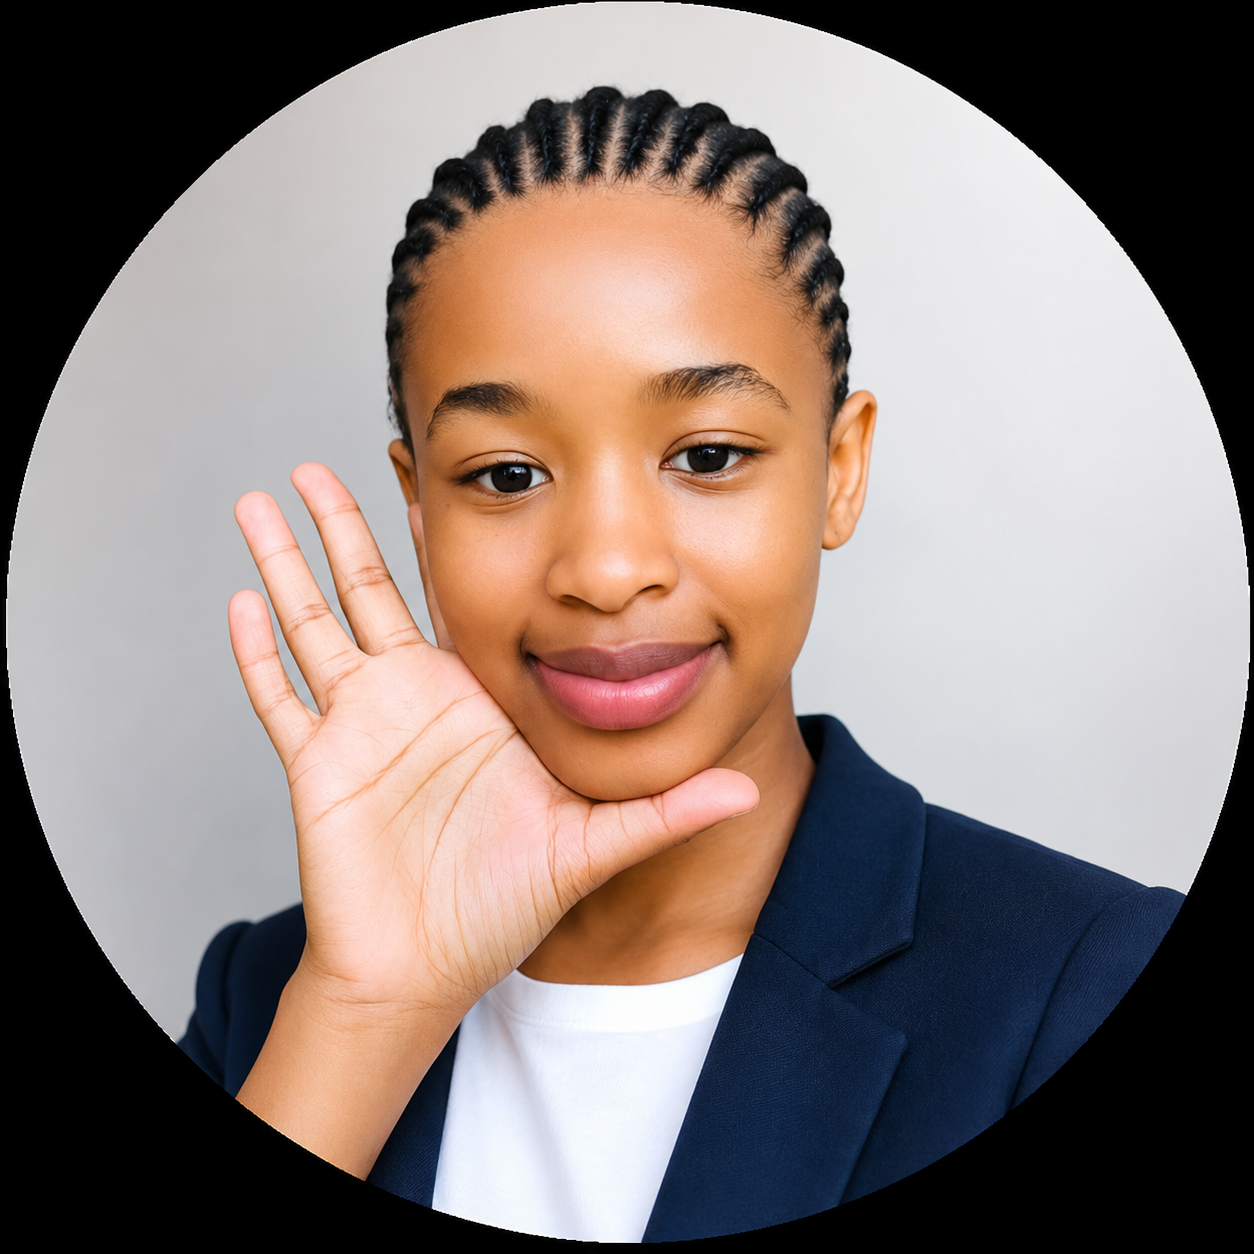
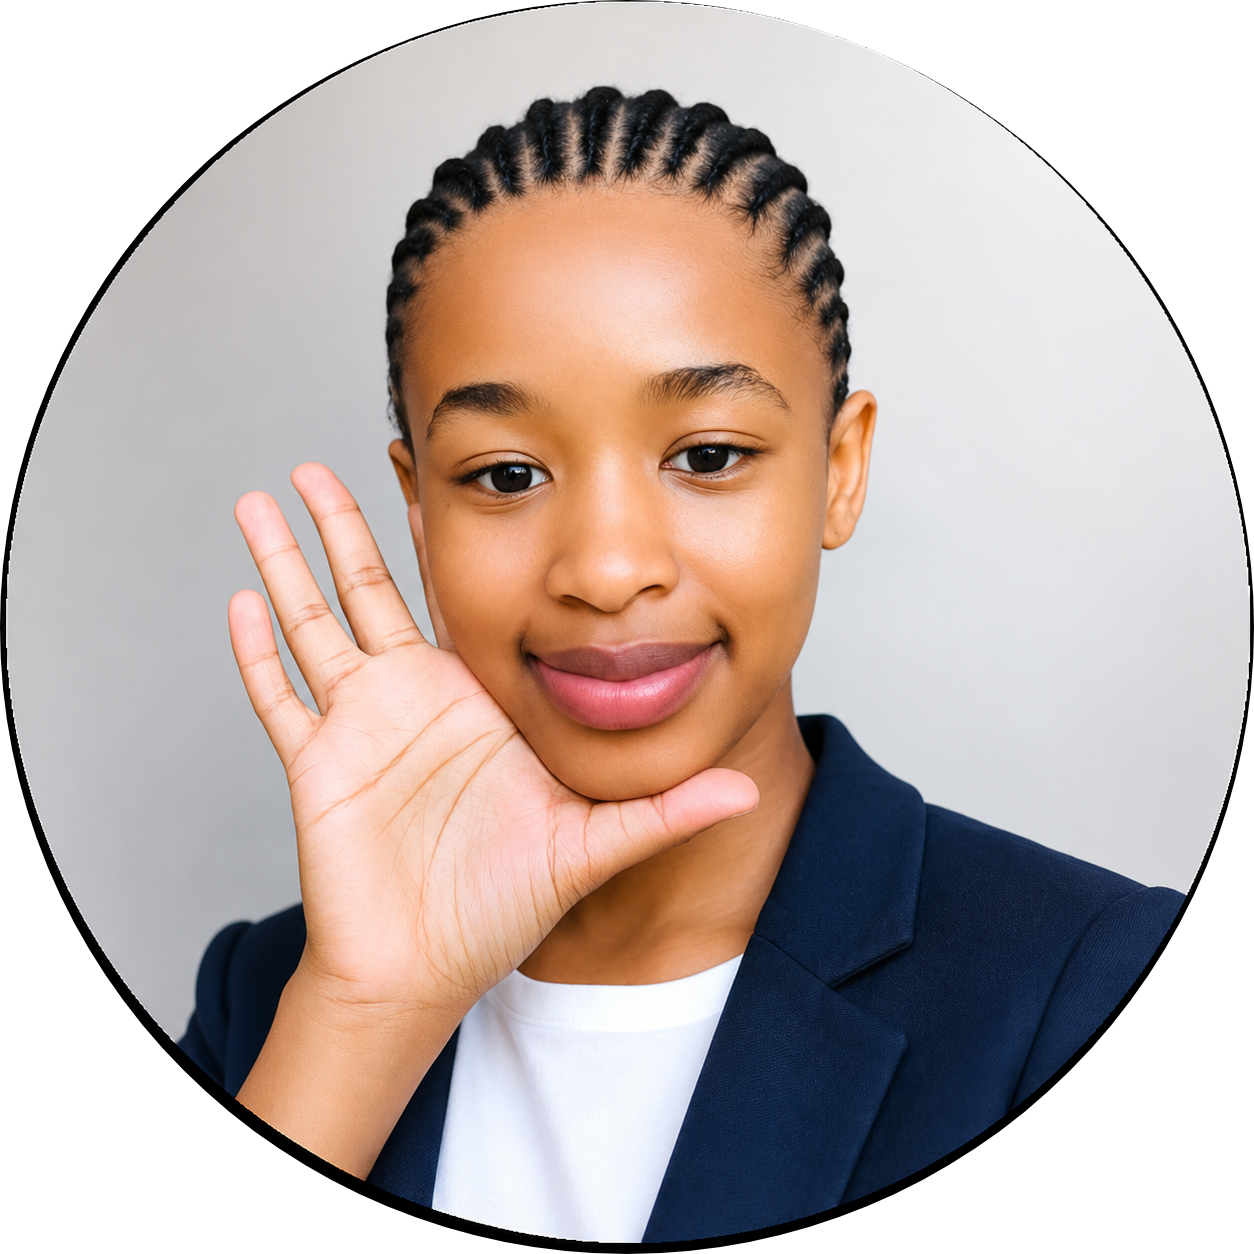
Add Live Projects page with filter categories and project showcase

Changed region(s): [[0.0, 0.0, 1.0, 1.0], [0.0, 0.0, 0.4354, 0.4354]]

diff --git a/src/pages/LiveProjects.tsx b/src/pages/LiveProjects.tsx
@@ -1,0 +1,273 @@
+import React, { useState } from 'react';
+import { motion } from 'framer-motion';
+import Navbar from '@/components/Navbar';
+import Footer from '@/components/Footer';
+import WhatsAppFloat from '@/components/WhatsAppFloat';
+import FloatingAssistant from '@/components/FloatingAssistant';
+import { Card, CardContent, CardDescription, CardFooter, CardHeader, CardTitle } from '@/components/ui/card';
+import { Button } from '@/components/ui/button';
+import { Badge } from '@/components/ui/badge';
+import { ExternalLink, Github, Calendar, Tag } from 'lucide-react';
+
+interface Project {
+  id: number;
+  title: string;
+  description: string;
+  category: string;
+  tags: string[];
+  image: string;
+  liveUrl?: string;
+  githubUrl?: string;
+  date: string;
+}
+
+const LiveProjects = () => {
+  const [selectedCategory, setSelectedCategory] = useState('All');
+
+  const categories = ['All', 'AI & Chatbot', 'Mobile Apps', 'Web Development', 'Machine Learning', 'Graphic Design', 'Marketing'];
+
+  const projects: Project[] = [
+    {
+      id: 1,
+      title: 'AI Customer Support Chatbot',
+      description: 'Intelligent chatbot with natural language processing for 24/7 customer support',
+      category: 'AI & Chatbot',
+      tags: ['AI', 'NLP', 'React', 'Node.js'],
+      image: 'https://images.unsplash.com/photo-1531746790731-6c087fecd65a?ixlib=rb-1.2.1&auto=format&fit=crop&w=800&q=80',
+      liveUrl: 'https://example.com/chatbot',
+      githubUrl: 'https://github.com/example/chatbot',
+      date: '2024-01'
+    },
+    {
+      id: 2,
+      title: 'E-Commerce Mobile App',
+      description: 'Cross-platform shopping app with payment integration and real-time tracking',
+      category: 'Mobile Apps',
+      tags: ['React Native', 'Firebase', 'Stripe'],
+      image: 'https://images.unsplash.com/photo-1563013544-824ae1b704d3?ixlib=rb-1.2.1&auto=format&fit=crop&w=800&q=80',
+      liveUrl: 'https://example.com/ecommerce',
+      date: '2024-02'
+    },
+    {
+      id: 3,
+      title: 'Restaurant Management System',
+      description: 'Full-stack web application for restaurant operations and online ordering',
+      category: 'Web Development',
+      tags: ['React', 'TypeScript', 'PostgreSQL'],
+      image: 'https://images.unsplash.com/photo-1517248135467-4c7edcad34c4?ixlib=rb-1.2.1&auto=format&fit=crop&w=800&q=80',
+      liveUrl: 'https://example.com/restaurant',
+      githubUrl: 'https://github.com/example/restaurant',
+      date: '2024-03'
+    },
+    {
+      id: 4,
+      title: 'Predictive Analytics Platform',
+      description: 'ML-powered platform for business forecasting and data visualization',
+      category: 'Machine Learning',
+      tags: ['Python', 'TensorFlow', 'React', 'FastAPI'],
+      image: 'https://images.unsplash.com/photo-1551288049-bebda4e38f71?ixlib=rb-1.2.1&auto=format&fit=crop&w=800&q=80',
+      liveUrl: 'https://example.com/analytics',
+      date: '2024-01'
+    },
+    {
+      id: 5,
+      title: 'Brand Identity Package',
+      description: 'Complete branding solution including logo, guidelines, and marketing materials',
+      category: 'Graphic Design',
+      tags: ['Illustrator', 'Photoshop', 'Figma'],
+      image: 'https://images.unsplash.com/photo-1626785774573-4b799315345d?ixlib=rb-1.2.1&auto=format&fit=crop&w=800&q=80',
+      liveUrl: 'https://example.com/branding',
+      date: '2024-02'
+    },
+    {
+      id: 6,
+      title: 'Social Media Campaign',
+      description: 'Multi-platform marketing campaign with 300% engagement increase',
+      category: 'Marketing',
+      tags: ['Social Media', 'Content Strategy', 'Analytics'],
+      image: 'https://images.unsplash.com/photo-1611162617474-5b21e879e113?ixlib=rb-1.2.1&auto=format&fit=crop&w=800&q=80',
+      liveUrl: 'https://example.com/campaign',
+      date: '2024-03'
+    },
+  ];
+
+  const filteredProjects = selectedCategory === 'All' 
+    ? projects 
+    : projects.filter(project => project.category === selectedCategory);
+
+  return (
+    <div className="min-h-screen flex flex-col">
+      <Navbar />
+      
+      <main className="flex-grow">
+        {/* Hero Section */}
+        <section className="bg-gradient-to-r from-tech-blue to-tech-purple text-white py-20">
+          <div className="container-custom">
+            <motion.div
+              initial={{ opacity: 0, y: 20 }}
+              animate={{ opacity: 1, y: 0 }}
+              transition={{ duration: 0.6 }}
+              className="text-center"
+            >
+              <h1 className="text-4xl md:text-5xl lg:text-6xl font-bold mb-6">
+                Live Projects
+              </h1>
+              <p className="text-xl md:text-2xl text-white/90 max-w-3xl mx-auto">
+                Explore our portfolio of successful projects and live applications
+              </p>
+            </motion.div>
+          </div>
+        </section>
+
+        {/* Filter Section */}
+        <section className="py-8 bg-gray-50 sticky top-[73px] z-30 shadow-sm">
+          <div className="container-custom">
+            <div className="flex flex-wrap gap-3 justify-center">
+              {categories.map((category) => (
+                <motion.button
+                  key={category}
+                  whileHover={{ scale: 1.05 }}
+                  whileTap={{ scale: 0.95 }}
+                  onClick={() => setSelectedCategory(category)}
+                  className={`px-6 py-2 rounded-full font-medium transition-all ${
+                    selectedCategory === category
+                      ? 'bg-tech-blue text-white shadow-lg'
+                      : 'bg-white text-gray-700 hover:bg-gray-100'
+                  }`}
+                >
+                  {category}
+                </motion.button>
+              ))}
+            </div>
+          </div>
+        </section>
+
+        {/* Projects Grid */}
+        <section className="py-16">
+          <div className="container-custom">
+            <motion.div
+              layout
+              className="grid md:grid-cols-2 lg:grid-cols-3 gap-8"
+            >
+              {filteredProjects.map((project, index) => (
+                <motion.div
+                  key={project.id}
+                  layout
+                  initial={{ opacity: 0, scale: 0.9 }}
+                  animate={{ opacity: 1, scale: 1 }}
+                  exit={{ opacity: 0, scale: 0.9 }}
+                  transition={{ duration: 0.3, delay: index * 0.1 }}
+                >
+                  <Card className="overflow-hidden h-full hover:shadow-xl transition-shadow duration-300">
+                    <div className="relative h-48 overflow-hidden">
+                      <img
+                        src={project.image}
+                        alt={project.title}
+                        className="w-full h-full object-cover hover:scale-110 transition-transform duration-300"
+                      />
+                      <div className="absolute top-3 right-3">
+                        <Badge className="bg-tech-blue">{project.category}</Badge>
+                      </div>
+                    </div>
+                    
+                    <CardHeader>
+                      <CardTitle className="text-xl">{project.title}</CardTitle>
+                      <CardDescription className="flex items-center gap-2 text-sm">
+                        <Calendar className="h-4 w-4" />
+                        {new Date(project.date).toLocaleDateString('en-US', { 
+                          month: 'short', 
+                          year: 'numeric' 
+                        })}
+                      </CardDescription>
+                    </CardHeader>
+                    
+                    <CardContent>
+                      <p className="text-gray-600 mb-4">{project.description}</p>
+                      <div className="flex flex-wrap gap-2">
+                        {project.tags.map((tag) => (
+                          <Badge key={tag} variant="outline" className="text-xs">
+                            <Tag className="h-3 w-3 mr-1" />
+                            {tag}
+                          </Badge>
+                        ))}
+                      </div>
+                    </CardContent>
+                    
+                    <CardFooter className="gap-3">
+                      {project.liveUrl && (
+                        <Button
+                          asChild
+                          className="flex-1 bg-tech-blue hover:bg-tech-purple"
+                        >
+                          <a
+                            href={project.liveUrl}
+                            target="_blank"
+                            rel="noopener noreferrer"
+                          >
+                            <ExternalLink className="h-4 w-4 mr-2" />
+                            Live Demo
+                          </a>
+                        </Button>
+                      )}
+                      {project.githubUrl && (
+                        <Button
+                          asChild
+                          variant="outline"
+                          className="flex-1"
+                        >
+                          <a
+                            href={project.githubUrl}
+                            target="_blank"
+                            rel="noopener noreferrer"
+                          >
+                            <Github className="h-4 w-4 mr-2" />
+                            Code
+                          </a>
+                        </Button>
+                      )}
+                    </CardFooter>
+                  </Card>
+                </motion.div>
+              ))}
+            </motion.div>
+
+            {filteredProjects.length === 0 && (
+              <motion.div
+                initial={{ opacity: 0 }}
+                animate={{ opacity: 1 }}
+                className="text-center py-20"
+              >
+                <p className="text-gray-500 text-xl">No projects found in this category</p>
+              </motion.div>
+            )}
+          </div>
+        </section>
+
+        {/* CTA Section */}
+        <section className="bg-gradient-to-r from-tech-blue to-tech-purple text-white py-16">
+          <div className="container-custom text-center">
+            <h2 className="text-3xl md:text-4xl font-bold mb-4">
+              Ready to Start Your Project?
+            </h2>
+            <p className="text-xl mb-8 text-white/90">
+              Let's bring your ideas to life with cutting-edge technology
+            </p>
+            <Button
+              asChild
+              size="lg"
+              className="bg-white text-tech-blue hover:bg-gray-100"
+            >
+              <a href="/#team">Contact Us</a>
+            </Button>
+          </div>
+        </section>
+      </main>
+
+      <Footer />
+      <WhatsAppFloat />
+      <FloatingAssistant />
+    </div>
+  );
+};
+
+export default LiveProjects;

diff --git a/src/components/Navbar.tsx b/src/components/Navbar.tsx
@@ -26,25 +26,28 @@ const Navbar = () => {
         
         {/* Desktop Navigation */}
         <div className="hidden md:flex items-center gap-8">
-          <a href="#ai" className="text-gray-700 hover:text-tech-blue transition-colors">
+          <a href="/#ai" className="text-gray-700 hover:text-tech-blue transition-colors">
             AI
           </a>
-          <a href="#mobile" className="text-gray-700 hover:text-tech-blue transition-colors">
+          <a href="/#mobile" className="text-gray-700 hover:text-tech-blue transition-colors">
             Mobile Apps
           </a>
-          <a href="#web" className="text-gray-700 hover:text-tech-blue transition-colors">
+          <a href="/#web" className="text-gray-700 hover:text-tech-blue transition-colors">
             Web Development
           </a>
-          <a href="#ml" className="text-gray-700 hover:text-tech-blue transition-colors">
+          <a href="/#ml" className="text-gray-700 hover:text-tech-blue transition-colors">
             Machine Learning
           </a>
-          <a href="#graphic-design" className="text-gray-700 hover:text-tech-blue transition-colors">
+          <a href="/#graphic-design" className="text-gray-700 hover:text-tech-blue transition-colors">
             Graphic Design
           </a>
-          <a href="#marketing" className="text-gray-700 hover:text-tech-blue transition-colors">
+          <a href="/#marketing" className="text-gray-700 hover:text-tech-blue transition-colors">
             Marketing
           </a>
-          <a href="#team" className="text-gray-700 hover:text-tech-blue transition-colors">
+          <a href="/live-projects" className="text-gray-700 hover:text-tech-blue transition-colors">
+            Live Projects
+          </a>
+          <a href="/#team" className="text-gray-700 hover:text-tech-blue transition-colors">
             Team
           </a>
           
@@ -96,25 +99,28 @@ const Navbar = () => {
       {isMenuOpen && (
         <div className="md:hidden bg-white py-2 px-4 shadow-md absolute top-full left-0 right-0 z-50">
           <div className="flex flex-col space-y-3">
-            <a href="#ai" className="text-gray-700 py-2 hover:text-tech-blue transition-colors" onClick={() => setIsMenuOpen(false)}>
+            <a href="/#ai" className="text-gray-700 py-2 hover:text-tech-blue transition-colors" onClick={() => setIsMenuOpen(false)}>
               AI
             </a>
-            <a href="#mobile" className="text-gray-700 py-2 hover:text-tech-blue transition-colors" onClick={() => setIsMenuOpen(false)}>
+            <a href="/#mobile" className="text-gray-700 py-2 hover:text-tech-blue transition-colors" onClick={() => setIsMenuOpen(false)}>
               Mobile Apps
             </a>
-            <a href="#web" className="text-gray-700 py-2 hover:text-tech-blue transition-colors" onClick={() => setIsMenuOpen(false)}>
+            <a href="/#web" className="text-gray-700 py-2 hover:text-tech-blue transition-colors" onClick={() => setIsMenuOpen(false)}>
               Web Development
             </a>
-            <a href="#ml" className="text-gray-700 py-2 hover:text-tech-blue transition-colors" onClick={() => setIsMenuOpen(false)}>
+            <a href="/#ml" className="text-gray-700 py-2 hover:text-tech-blue transition-colors" onClick={() => setIsMenuOpen(false)}>
               Machine Learning
             </a>
-            <a href="#graphic-design" className="text-gray-700 py-2 hover:text-tech-blue transition-colors" onClick={() => setIsMenuOpen(false)}>
+            <a href="/#graphic-design" className="text-gray-700 py-2 hover:text-tech-blue transition-colors" onClick={() => setIsMenuOpen(false)}>
               Graphic Design
             </a>
-            <a href="#marketing" className="text-gray-700 py-2 hover:text-tech-blue transition-colors" onClick={() => setIsMenuOpen(false)}>
+            <a href="/#marketing" className="text-gray-700 py-2 hover:text-tech-blue transition-colors" onClick={() => setIsMenuOpen(false)}>
               Marketing
             </a>
-            <a href="#team" className="text-gray-700 py-2 hover:text-tech-blue transition-colors" onClick={() => setIsMenuOpen(false)}>
+            <a href="/live-projects" className="text-gray-700 py-2 hover:text-tech-blue transition-colors" onClick={() => setIsMenuOpen(false)}>
+              Live Projects
+            </a>
+            <a href="/#team" className="text-gray-700 py-2 hover:text-tech-blue transition-colors" onClick={() => setIsMenuOpen(false)}>
               Team
             </a>
             <div className="border-t border-gray-200 pt-3 space-y-3">

diff --git a/src/App.tsx b/src/App.tsx
@@ -7,6 +7,7 @@ import { BrowserRouter, Routes, Route } from "react-router-dom";
 import Index from "./pages/Index";
 import NotFound from "./pages/NotFound";
 import LearnMore from "./pages/LearnMore";
+import LiveProjects from "./pages/LiveProjects";
 
 const queryClient = new QueryClient();
 
@@ -19,6 +20,7 @@ const App = () => (
         <Routes>
           <Route path="/" element={<Index />} />
           <Route path="/learn-more" element={<LearnMore />} />
+          <Route path="/live-projects" element={<LiveProjects />} />
           {/* ADD ALL CUSTOM ROUTES ABOVE THE CATCH-ALL "*" ROUTE */}
           <Route path="*" element={<NotFound />} />
         </Routes>
